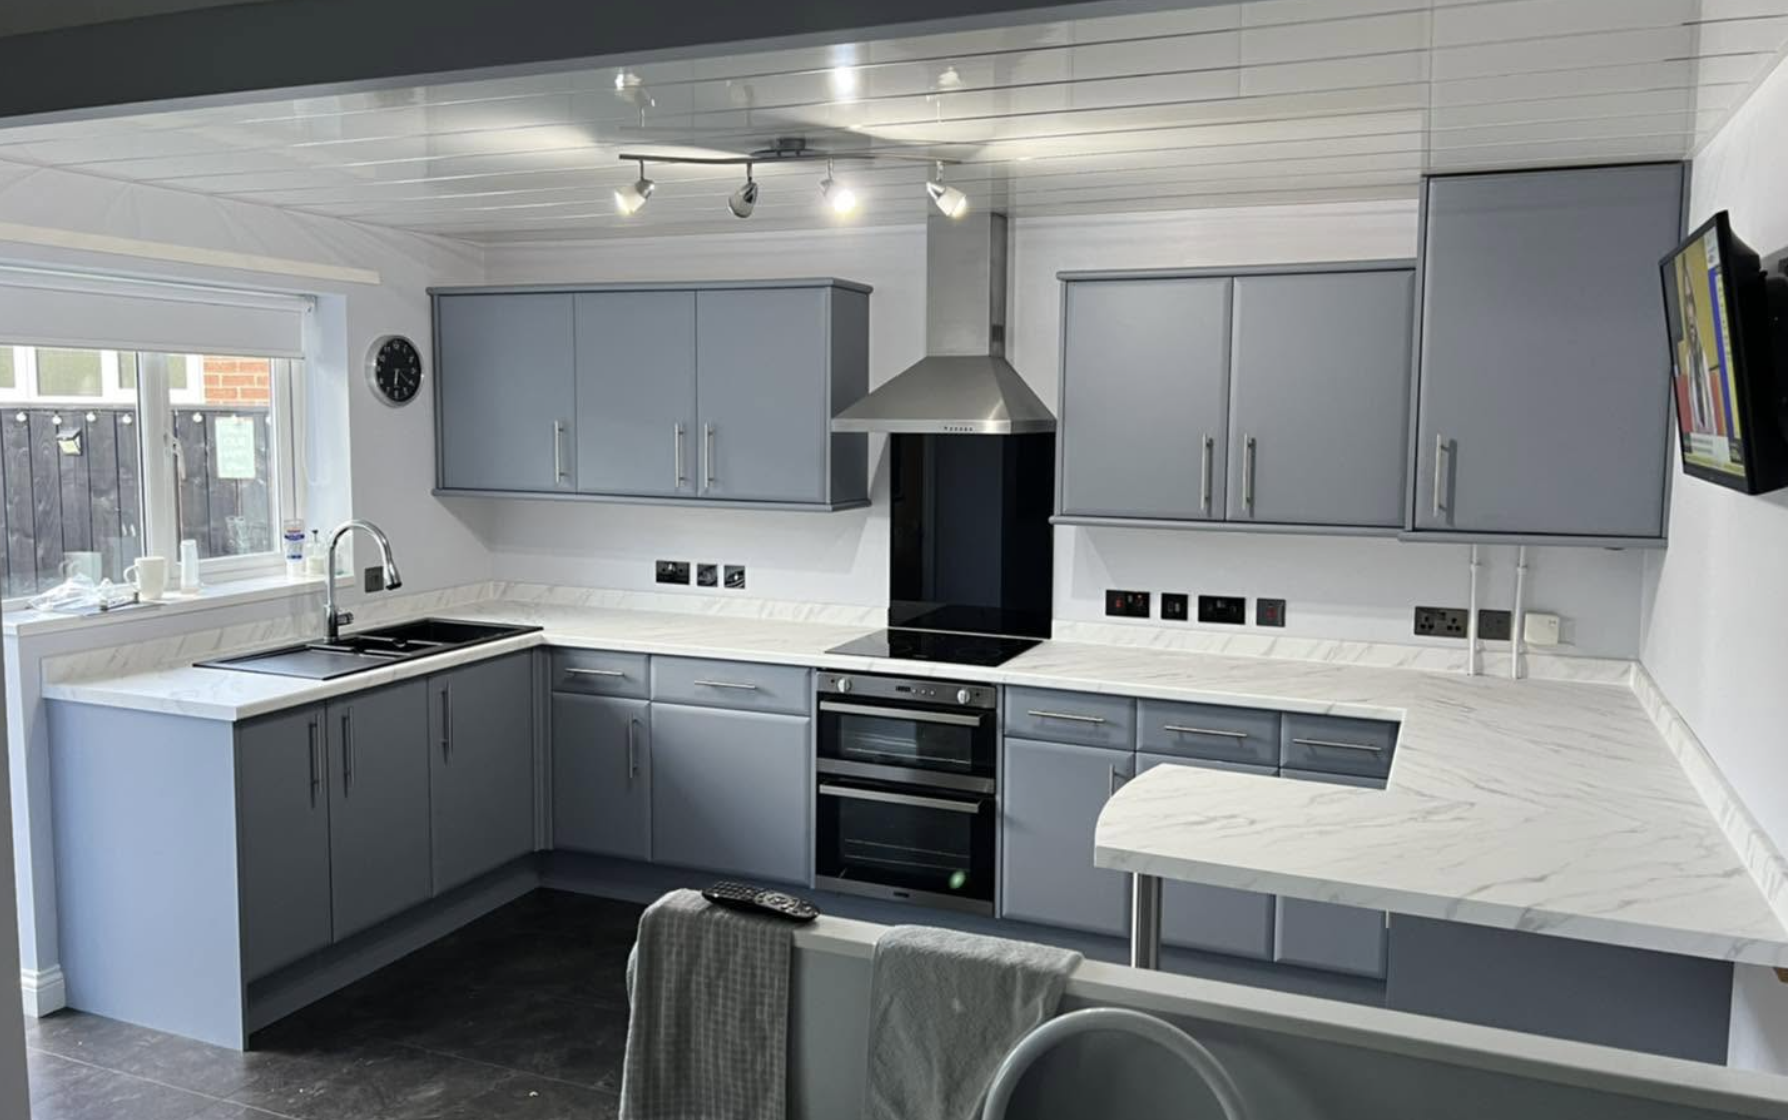
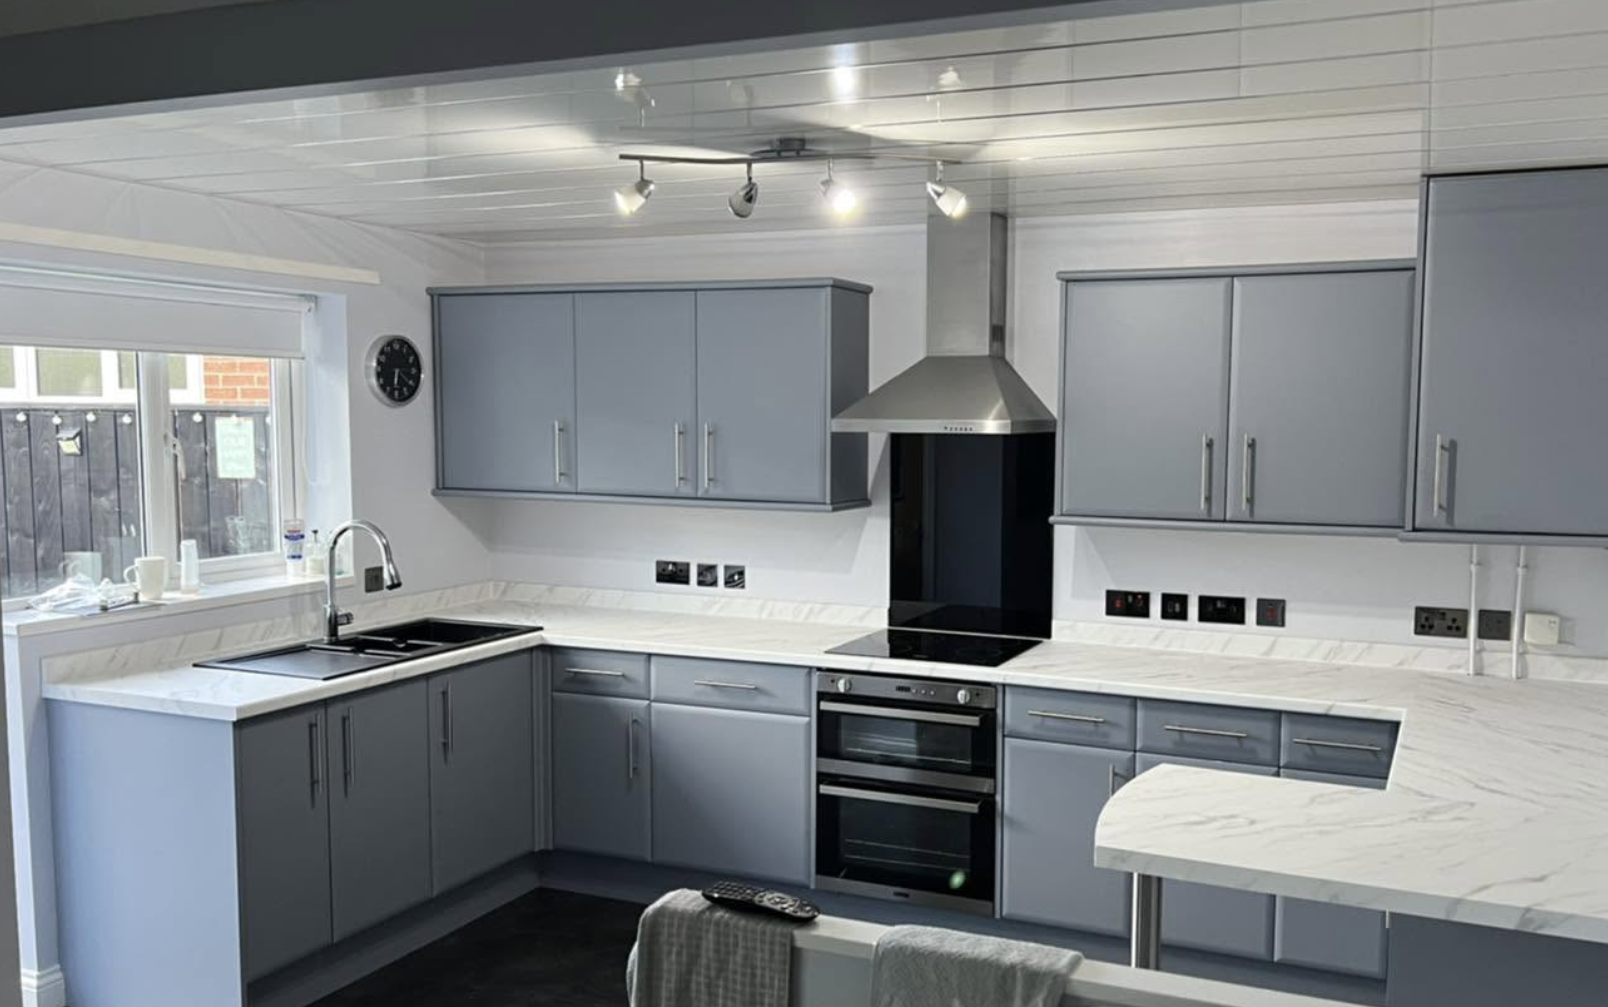
Update to images

diff --git a/src/components/chameleon/images.js b/src/components/chameleon/images.js
@@ -2,22 +2,18 @@
 // exact filenames. Until each file exists, importing this module will fail
 // to build — vite-imagetools resolves these at build time, so it needs the
 // files to be present on disk.
-import beforeHeroSrc from "@/assets/gallery/before-hero.png?w=1200&format=webp";
-import beforeHeroSrcSet from "@/assets/gallery/before-hero.png?w=480;768;1200;1600&format=webp&as=srcset";
-import afterHeroSrc from "@/assets/gallery/after-hero.png?w=1200&format=webp";
-import afterHeroSrcSet from "@/assets/gallery/after-hero.png?w=480;768;1200;1600&format=webp&as=srcset";
-import glossKitchenSrc from "@/assets/gallery/3.png?w=1200&format=webp";
-import glossKitchenSrcSet from "@/assets/gallery/3.png?w=480;768;1200;1600&format=webp&as=srcset";
+import beforeHeroSrc from "@/assets/gallery/before-hero-2.png?w=1200&format=webp";
+import beforeHeroSrcSet from "@/assets/gallery/before-hero-2.png?w=480;768;1200;1600&format=webp&as=srcset";
+import afterHeroSrc from "@/assets/gallery/after-hero-2.png?w=1200&format=webp";
+import afterHeroSrcSet from "@/assets/gallery/after-hero-2.png?w=480;768;1200;1600&format=webp&as=srcset";
+import matteSaharaKitchenSrc from "@/assets/gallery/matte-sahara-kitchen.jpg?w=1200&format=webp";
+import matteSaharaKitchenSrcSet from "@/assets/gallery/matte-sahara-kitchen.jpg?w=480;768;1200;1600&format=webp&as=srcset";
 import sageKitchenSrc from "@/assets/gallery/sage-green-kitchen.png?w=1200&format=webp";
 import sageKitchenSrcSet from "@/assets/gallery/sage-green-kitchen.png?w=480;768;1200;1600&format=webp&as=srcset";
-import marbleMacroSrc from "@/assets/gallery/5.png?w=1200&format=webp";
-import marbleMacroSrcSet from "@/assets/gallery/5.png?w=480;768;1200;1600&format=webp&as=srcset";
-import mediaWallSrc from "@/assets/gallery/6.png?w=1200&format=webp";
-import mediaWallSrcSet from "@/assets/gallery/6.png?w=480;768;1200;1600&format=webp&as=srcset";
-import handleMacroSrc from "@/assets/gallery/7.png?w=1200&format=webp";
-import handleMacroSrcSet from "@/assets/gallery/7.png?w=480;768;1200;1600&format=webp&as=srcset";
-import marbleWorktopSrc from "@/assets/gallery/8.png?w=1200&format=webp";
-import marbleWorktopSrcSet from "@/assets/gallery/8.png?w=480;768;1200;1600&format=webp&as=srcset";
+import sageGreenKitchenSrc from "@/assets/gallery/sage-green-kitchen-2.jpg?w=1200&format=webp";
+import sageGreenKitchenSrcSet from "@/assets/gallery/sage-green-kitchen-2.jpg?w=480;768;1200;1600&format=webp&as=srcset";
+import onyxWorktopSrc from "@/assets/gallery/onyx-worktop.png?w=1200&format=webp";
+import onyxWorktopSrcSet from "@/assets/gallery/onyx-worktop.png?w=480;768;1200;1600&format=webp&as=srcset";
 import commercialCabinetSrc from "@/assets/gallery/commercial-cabinet.png?w=1200&format=webp";
 import commercialCabinetSrcSet from "@/assets/gallery/commercial-cabinet.png?w=480;768;1200;1600&format=webp&as=srcset";
 import oakTopSrc from "@/assets/gallery/oak-top.png?w=1200&format=webp";
@@ -26,21 +22,31 @@ import matteBlackKitchenSrc from "@/assets/gallery/matte-black-kitchen.png?w=120
 import matteBlackKitchenSrcSet from "@/assets/gallery/matte-black-kitchen.png?w=480;768;1200;1600&format=webp&as=srcset";
 import beigeMarbleMediaWallSrc from "@/assets/gallery/beige-marble-media-wall.png?w=1200&format=webp";
 import beigeMarbleMediaWallSrcSet from "@/assets/gallery/beige-marble-media-wall.png?w=480;768;1200;1600&format=webp&as=srcset";
+import fitterWorkingSrc from "@/assets/gallery/fitter-working.png?w=1200&format=webp";
+import fitterWorkingSrcSet from "@/assets/gallery/fitter-working.png?w=480;768;1200;1600&format=webp&as=srcset";
+import mediaWall2Src from "@/assets/gallery/media-wall-2.jpg?w=1200&format=webp";
+import mediaWall2SrcSet from "@/assets/gallery/media-wall-2.jpg?w=480;768;1200;1600&format=webp&as=srcset";
+import whiteDrawerSrc from "@/assets/gallery/white-drawer.jpg?w=1200&format=webp";
+import whiteDrawerSrcSet from "@/assets/gallery/white-drawer.jpg?w=480;768;1200;1600&format=webp&as=srcset";
+import fittedWardrobeSrc from "@/assets/gallery/fitted-wardrobe.jpg?w=1200&format=webp";
+import fittedWardrobeSrcSet from "@/assets/gallery/fitted-wardrobe.jpg?w=480;768;1200;1600&format=webp&as=srcset";
 
 export const IMAGES = {
   beforeHero: { src: beforeHeroSrc, srcSet: beforeHeroSrcSet },
   afterHero: { src: afterHeroSrc, srcSet: afterHeroSrcSet },
-  glossKitchen: { src: glossKitchenSrc, srcSet: glossKitchenSrcSet },
+  matteSaharaKitchen: {
+    src: matteSaharaKitchenSrc,
+    srcSet: matteSaharaKitchenSrcSet,
+  },
   sageKitchen: { src: sageKitchenSrc, srcSet: sageKitchenSrcSet },
-  marbleMacro: { src: marbleMacroSrc, srcSet: marbleMacroSrcSet },
-  mediaWall: { src: mediaWallSrc, srcSet: mediaWallSrcSet },
-  handleMacro: { src: handleMacroSrc, srcSet: handleMacroSrcSet },
+  mediaWall2: { src: mediaWall2Src, srcSet: mediaWall2SrcSet },
+  fitterWorking: { src: fitterWorkingSrc, srcSet: fitterWorkingSrcSet },
   oakTop: { src: oakTopSrc, srcSet: oakTopSrcSet },
   matteBlackKitchen: {
     src: matteBlackKitchenSrc,
     srcSet: matteBlackKitchenSrcSet,
   },
-  marbleWorktop: { src: marbleWorktopSrc, srcSet: marbleWorktopSrcSet },
+  onyxWorktop: { src: onyxWorktopSrc, srcSet: onyxWorktopSrcSet },
   commercialCabinet: {
     src: commercialCabinetSrc,
     srcSet: commercialCabinetSrcSet,
@@ -49,6 +55,12 @@ export const IMAGES = {
     src: beigeMarbleMediaWallSrc,
     srcSet: beigeMarbleMediaWallSrcSet,
   },
+  sageGreenKitchen: {
+    src: sageGreenKitchenSrc,
+    srcSet: sageGreenKitchenSrcSet,
+  },
+  whiteDrawer: { src: whiteDrawerSrc, srcSet: whiteDrawerSrcSet },
+  fittedWardrobe: { src: fittedWardrobeSrc, srcSet: fittedWardrobeSrcSet },
 };
 
 export const SOCIALS = {

diff --git a/src/components/chameleon/About.jsx b/src/components/chameleon/About.jsx
@@ -10,14 +10,26 @@ const STATS = [
 const TESTIMONIALS = [
   {
     quote:
-      "Chameleon Home Wrapping do cupboards as well as work surfaces. Excellent work.",
-    name: "Wendy Luke",
+      "From first contact to completion they did a top class makeover very pleased with the outcome. Would definitely use again and would 100% recommend.",
+    name: "Richard Porter",
     source: "via Facebook",
   },
   {
     quote:
-      "The kitchen cupboards were wrapped by Chameleon Home Wrapping and omg, look at the transformation — I LOVE it.",
-    name: "Whickham Salerooms",
+      "Highly recommend chameleon, they have totally transformed our kitchen work tops to go in with the new decor. Couldn’t be happier with the result. Very friendly and professional service. Would definitely use again 5 stars.",
+    name: "Lancaster Shell",
+    source: "via Facebook",
+  },
+  {
+    quote:
+      "I would highly recommend to anyone looking for a quality, professional service. From our first enquiry, to actual instalation everything has been superb. Chameleon worked so hard to ensure we got the best finish possible from the wrapping. We are so pleased with the finish. It has completely changed our kitchen.",
+    name: "Lyndsey Robinson",
+    source: "via Facebook",
+  },
+  {
+    quote:
+      "Had my kitchen wrapped over the last couple of day and I absolutely love it! Amazing skill and finesse, its just beautiful highly recommend these guys couldn’t fault there service! Professional, timely absolute Marvels at there trade!",
+    name: "Gemma Muldowney",
     source: "via Facebook",
   },
 ];
@@ -32,7 +44,7 @@ export default function About() {
         <div className="grid items-center gap-14 lg:grid-cols-2">
           <div className="relative overflow-hidden">
             <Image
-              src={IMAGES.handleMacro}
+              src={IMAGES.fitterWorking}
               alt="Matte vinyl wrap meeting a brushed brass handle"
               className="h-[420px] w-full object-cover sm:h-[560px]"
             />
@@ -49,20 +61,23 @@ export default function About() {
               ABOUT — NEWCASTLE UPON TYNE
             </p>
             <h2 className="mt-4 font-display text-[clamp(2rem,5vw,3.75rem)] font-light leading-[1.05] tracking-[-0.02em] text-white">
-              A local crew with{" "}
+              A local team with{" "}
               <span className="italic text-[#B8860B]">obsessive</span>{" "}
               standards.
             </h2>
             <p className="mt-6 text-base leading-relaxed text-white/70">
-              Chameleon is a Newcastle-based wrapping studio with ten years of
-              combined experience across kitchens, and bedroom furniture. We
-              treat your home like a showroom: edges wrapped by hand, joins
-              invisible, finishes flawless.
+              Chameleon is a Newcastle-based company with over ten years of
+              combined experience wrapping anything from kitchens to office
+              spaces and more. Choosing Chameleon gives you full creative
+              freedom by allowing you to select from our range of finishes and
+              colours to digital prints. Then, when it comes to installation, we
+              treat your space like a showroom, ensuring every detail is
+              perfect.
             </p>
             <p className="mt-4 text-base leading-relaxed text-white/70">
-              There&rsquo;s no rip-out, no re-plastering, no weeks of
-              tradespeople in your house — just a quiet, precise transformation
-              of the surfaces you already own.
+              There&rsquo;s no rip-out, no re-plastering, no weeks of tradesmen
+              in your house — just a quiet, precise transformation of the
+              surfaces you already own.
             </p>
 
             <div className="mt-10 grid grid-cols-3 gap-6 border-t border-white/10 pt-8">
@@ -80,15 +95,26 @@ export default function About() {
           </div>
         </div>
 
-        <div className="mt-20 grid gap-6 md:grid-cols-2">
+        <h2 className="mt-20 font-display text-[clamp(2rem,5vw,3.75rem)] font-light leading-[1.05] tracking-[-0.02em] text-white">
+          Testimonials
+        </h2>
+
+        <div className="mt-6 grid gap-6 md:grid-cols-2">
           {TESTIMONIALS.map((t) => (
             <figure key={t.name} className="border border-white/10 p-8">
               <blockquote className="font-display text-lg font-light italic leading-relaxed text-white/90">
                 &ldquo;{t.quote}&rdquo;
               </blockquote>
-              <figcaption className="mt-5 font-mono text-[10px] tracking-[0.25em] text-white/40">
-                {t.name.toUpperCase()} — {t.source.toUpperCase()}
-              </figcaption>
+              <div className="mt-4 flex gap-3 flex-row items-center">
+                <img
+                  src="recommends.png"
+                  alt={t.name}
+                  className="w-6 h-6 object-cover"
+                />
+                <figcaption className="font-mono text-[10px] tracking-[0.25em] text-white/40">
+                  {t.name.toUpperCase()} — {t.source.toUpperCase()}
+                </figcaption>
+              </div>
             </figure>
           ))}
         </div>

diff --git a/src/components/chameleon/Services.jsx b/src/components/chameleon/Services.jsx
@@ -9,13 +9,13 @@ const SERVICES = [
     image: IMAGES.commercialCabinet,
     meta: "01 / OFFICE · RETAIL · HOSPITALITY",
     blurb:
-      "Offices, bars and retail counters transformed with minimal downtime — hard-wearing wraps built for heavy use.",
+      "Offices, bars, lifts and retail counters transformed with minimal downtime — hard-wearing wraps built for heavy use.",
     swatch: "#B8860B",
   },
   {
     word: "KITCHEN",
     title: "Kitchens",
-    image: IMAGES.glossKitchen,
+    image: IMAGES.sageGreenKitchen,
     meta: "02 / DOORS · DRAWERS · CUPBOARDS",
     blurb:
       "Doors, drawers and cupboards wrapped in seamless gloss, matte or textured vinyl. No rip-out, no mess — a brand-new kitchen in days.",
@@ -27,34 +27,34 @@ const SERVICES = [
     image: IMAGES.oakTop,
     meta: "03 / MARBLE · GRANITE · OAK",
     blurb:
-      "Marble, granite and oak-effect wraps that are heat, stain and scratch resistant — seamless joins and a wipe-clean finish.",
+      "Marble, granite, oak-effect wraps and many more to give your worktops a fresh, new look.",
     swatch: "#8A8F98",
   },
   {
     word: "WARDROBE",
     title: "Wardrobes & Bedrooms",
-    image: IMAGES.sageWardrobe,
+    image: IMAGES.fittedWardrobe,
     meta: "04 / FITTED · FREESTANDING",
     blurb:
-      "Fitted wardrobes and bedroom furniture refreshed in any finish — from timeless high-gloss white to soft matte sage.",
+      "Fitted wardrobes and bedroom furniture refreshed in any finish — from sleek gloss anthrecite to soft matte sage.",
     swatch: "#4A5D4E",
   },
   {
     word: "MEDIA",
     title: "Media Walls & Fireplaces",
-    image: IMAGES.mediaWall,
+    image: IMAGES.mediaWall2,
     meta: "05 / SURROUNDS · UNITS",
     blurb:
-      "Media walls, fireplace surrounds and fitted units wrapped to match your space — flush, flawless and quietly modern.",
+      "Media walls, fireplace surrounds and fitted units wrapped to match your space — flush, flawless and quietly modern without the need for paint.",
     swatch: "#3A3F45",
   },
   {
     word: "FURNITURE",
     title: "Furniture & Drawers",
-    image: IMAGES.oakMacro,
+    image: IMAGES.whiteDrawer,
     meta: "06 / HOME · OFFICE",
     blurb:
-      "Dressers, drawer fronts, desks and office furniture given a premium new skin — grain-perfect, with seamless edges.",
+      "Dressers, drawers, desks and office furniture given a premium new skin to match your interior style.",
     swatch: "#7A5C3E",
   },
 ];

diff --git a/src/components/chameleon/Gallery.jsx b/src/components/chameleon/Gallery.jsx
@@ -13,13 +13,14 @@ const ASPECTS = [
 
 const WORK = [
   {
-    image: IMAGES.glossKitchen,
-    title: "High-gloss white kitchen",
-    meta: "KITCHEN / GLOSS",
-    blurb: "Tired oak-effect doors rewrapped in a mirror-flat gloss white.",
-    original: "Dated oak-effect doors and drawer fronts",
-    wrap: "High-gloss white vinyl, handles preserved",
-    benefits: ["Seamless edges", "Reflective depth", "Wipe-clean finish"],
+    image: IMAGES.matteSaharaKitchen,
+    title: "Matte Sahara kitchen",
+    meta: "KITCHEN / MATTE",
+    blurb:
+      "This kitchen was given a sleek new look with our matte Sahara wrap. The subtle texture and warm tones add a modern, sophisticated touch.",
+    original: "high-gloss grey doors and drawer fronts",
+    wrap: "Matte sahara vinyl",
+    benefits: ["Textured", "Refined", "Contemporary"],
     aspect: ASPECTS[0],
   },
   {
@@ -47,13 +48,14 @@ const WORK = [
     aspect: ASPECTS[2],
   },
   {
-    image: IMAGES.marbleWorktop,
-    title: "Marble-effect worktop",
+    image: IMAGES.onyxWorktop,
+    title: "Onyx gold worktop",
     meta: "WORKTOP / MARBLE",
-    blurb: "A laminate worktop reborn as veined marble — no joins, no sealant.",
+    blurb:
+      "This gorgeous finish brings deep rich tones, dramatic veining, and a high-end designer feel to any space. A perfect way to create that premium stone look without the cost and disruption of replacement.",
     original: "Worn laminate worktop",
-    wrap: "Marble-effect vinyl with wrapped edges",
-    benefits: ["Heat resistant", "Stain resistant", "No visible joins"],
+    wrap: "Onyx Gold vinyl from the marble range.",
+    benefits: ["Bold", "Elegant", "Timeless"],
     aspect: ASPECTS[3],
   },
   {
@@ -83,7 +85,7 @@ export default function Gallery() {
     <section
       id="work"
       data-swatch="#8A8F98"
-      className="bg-[#F7F7F5] py-24 sm:py-32">
+      className="bg-[#F7F7F5] py-20 sm:py-28">
       <div className="mx-auto max-w-7xl px-6 lg:px-10">
         <p className="font-mono text-[10px] tracking-[0.4em] text-[#4A5D4E]">
           THE GALLERY — PROOF OF CRAFT

diff --git a/src/components/chameleon/Hero.jsx b/src/components/chameleon/Hero.jsx
@@ -35,6 +35,9 @@ export default function Hero() {
           />
         </motion.div>
 
+        {/* Dark overlay */}
+        <div className="absolute inset-0 bg-black/30" />
+
         <motion.div
           style={{ left: bladeLeft }}
           className="absolute inset-y-0 z-10 w-[3px] bg-white/90 shadow-[0_0_24px_rgba(0,0,0,0.5)]">
@@ -44,8 +47,8 @@ export default function Hero() {
         </motion.div>
 
         <div className="absolute inset-x-0 bottom-0 z-20 bg-gradient-to-t from-black/85 via-black/40 to-transparent px-6 pb-24 pt-48 sm:px-10 lg:px-16">
-          <p className="font-mono font-medium text-[10px] tracking-[0.4em] text-white/80 sm:text-[11px]">
-            NEWCASTLE UPON TYNE — SURFACE TRANSFORMATION SPECIALISTS
+          <p className="font-mono font-medium text-[12px] tracking-[0.4em] text-white/80 sm:text-[12px]">
+            VINYL WRAPPING SPECIALISTS
           </p>
           <h1 className="mt-4 max-w-4xl font-display text-[clamp(2.6rem,8vw,6.5rem)] font-light leading-[0.95] tracking-[-0.02em] text-white">
             Your favourite space.

diff --git a/src/components/chameleon/BlueprintDialog.jsx b/src/components/chameleon/BlueprintDialog.jsx
@@ -13,7 +13,7 @@ export default function BlueprintDialog({ item, children }) {
   return (
     <Dialog>
       <DialogTrigger asChild>{children}</DialogTrigger>
-      <DialogContent className="max-w-3xl overflow-hidden bg-[#F7F7F5] p-0 sm:rounded-none">
+      <DialogContent className="max-w-4xl overflow-hidden bg-[#F7F7F5] p-0 sm:rounded-none">
         <div className="grid sm:grid-cols-2">
           <Image
             src={item.image}
